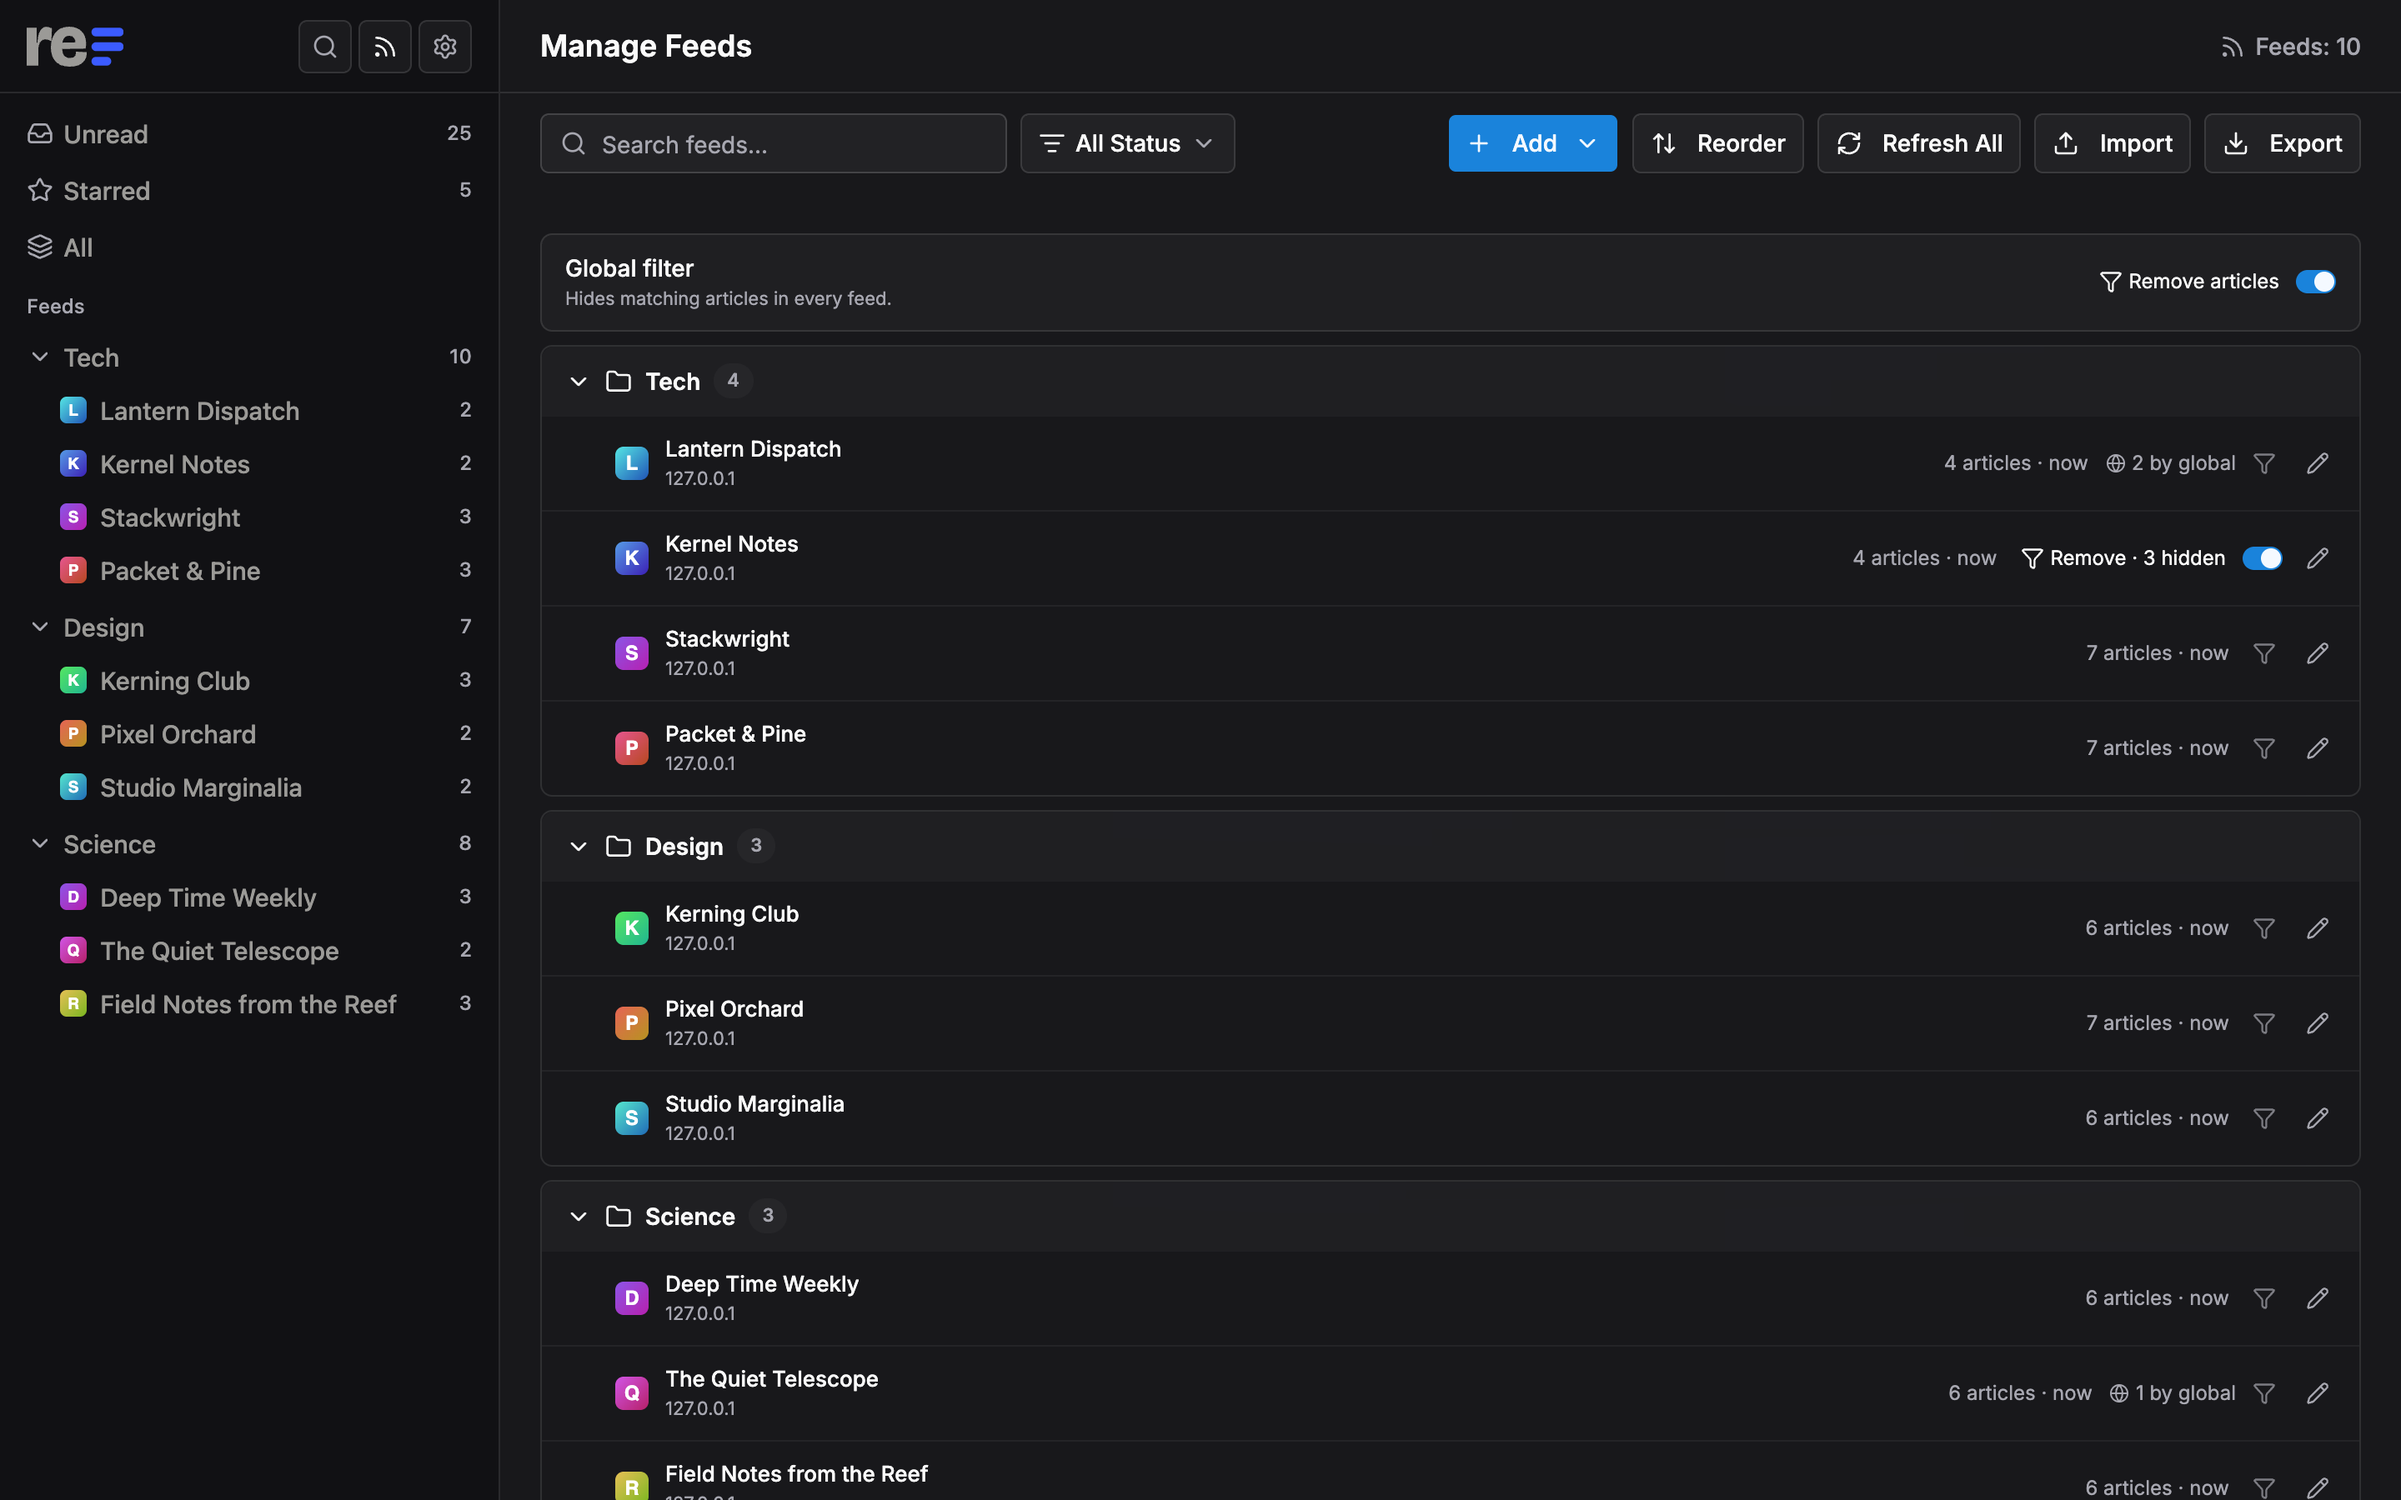
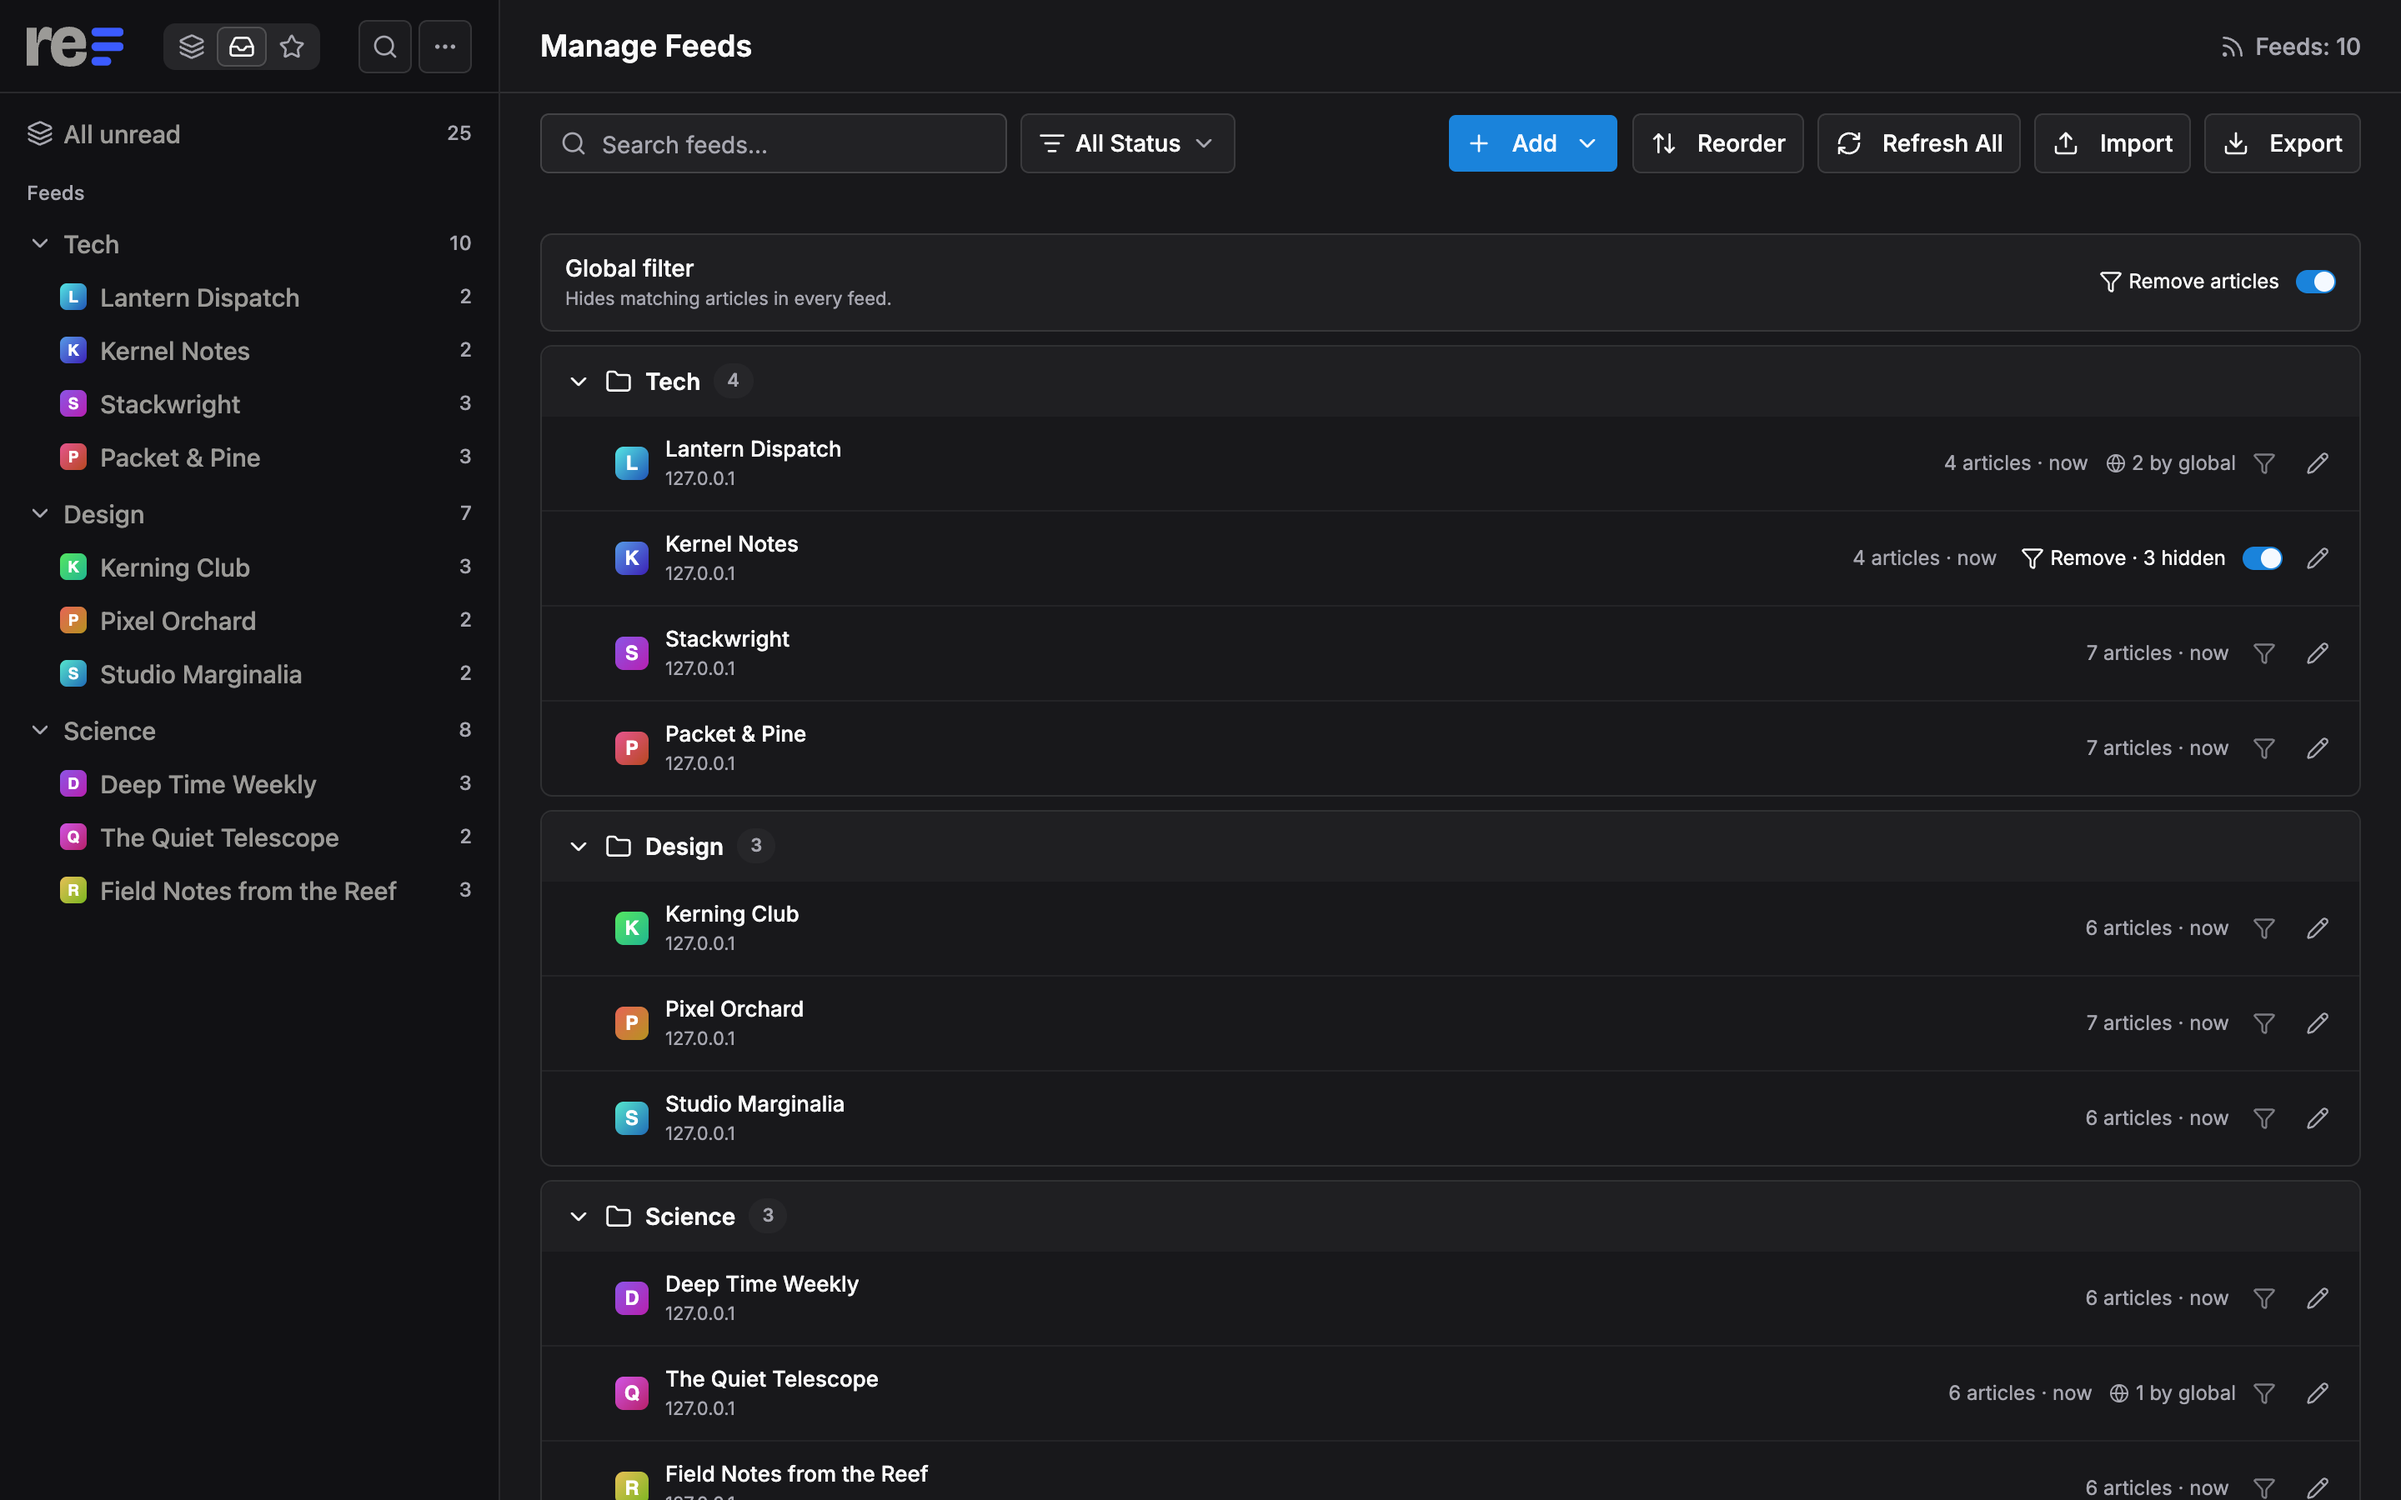
docs: unread/all/starred switch in readme, fresh screenshots

Changed region(s): [[0.0, 0.1244, 0.1562, 0.6844], [0.0938, 0.0, 0.125, 0.0622], [0.0, 0.0622, 0.0625, 0.0933]]

diff --git a/docs/frontend-design.md b/docs/frontend-design.md
@@ -56,8 +56,8 @@ This keeps list context stable while opening/closing article detail. `g u` /
 - Main content remains single-column
 - Modals/drawers share the same UI flow as desktop
 
-The reading view is an infinite list with an all/unread/starred switch and
-per-card read/star quick actions; the article drawer shows sanitized full
+The reading view is an infinite list with per-card read/star quick actions
+(its all/unread/starred switch sits in the sidebar header, see section 3); the article drawer shows sanitized full
 content (`lib/content.ts`) with source link and prev/next navigation; feed
 management (`/feeds`) hosts grouped feed/group CRUD, refresh-all, reorder
 mode, the per-feed and global filters, and OPML import/export. Component names map to these areas directly — browse

diff --git a/README.md b/README.md
@@ -100,6 +100,7 @@ Upstream changes are merged in.
 
 A few things here work the way [yarr](https://github.com/nkanaev/yarr) does them, because I liked them there:
 
+- **Unread, All, Starred** is one switch at the top of the sidebar. It keeps the feed or folder you're in, and under Unread and Starred the sidebar shows only feeds with something to read. `g u`, `g a` and `g s` flip it from the keyboard.
 - **Article rows:** feed, date and the read, star and open buttons on top, the title below, no summary.
 - **Previous and next** sit beside the close button in the article view's top bar on desktop.
 - **Infinite scroll** loads the next page only once scrolling stops near the bottom, so the list doesn't jump mid-fling.
